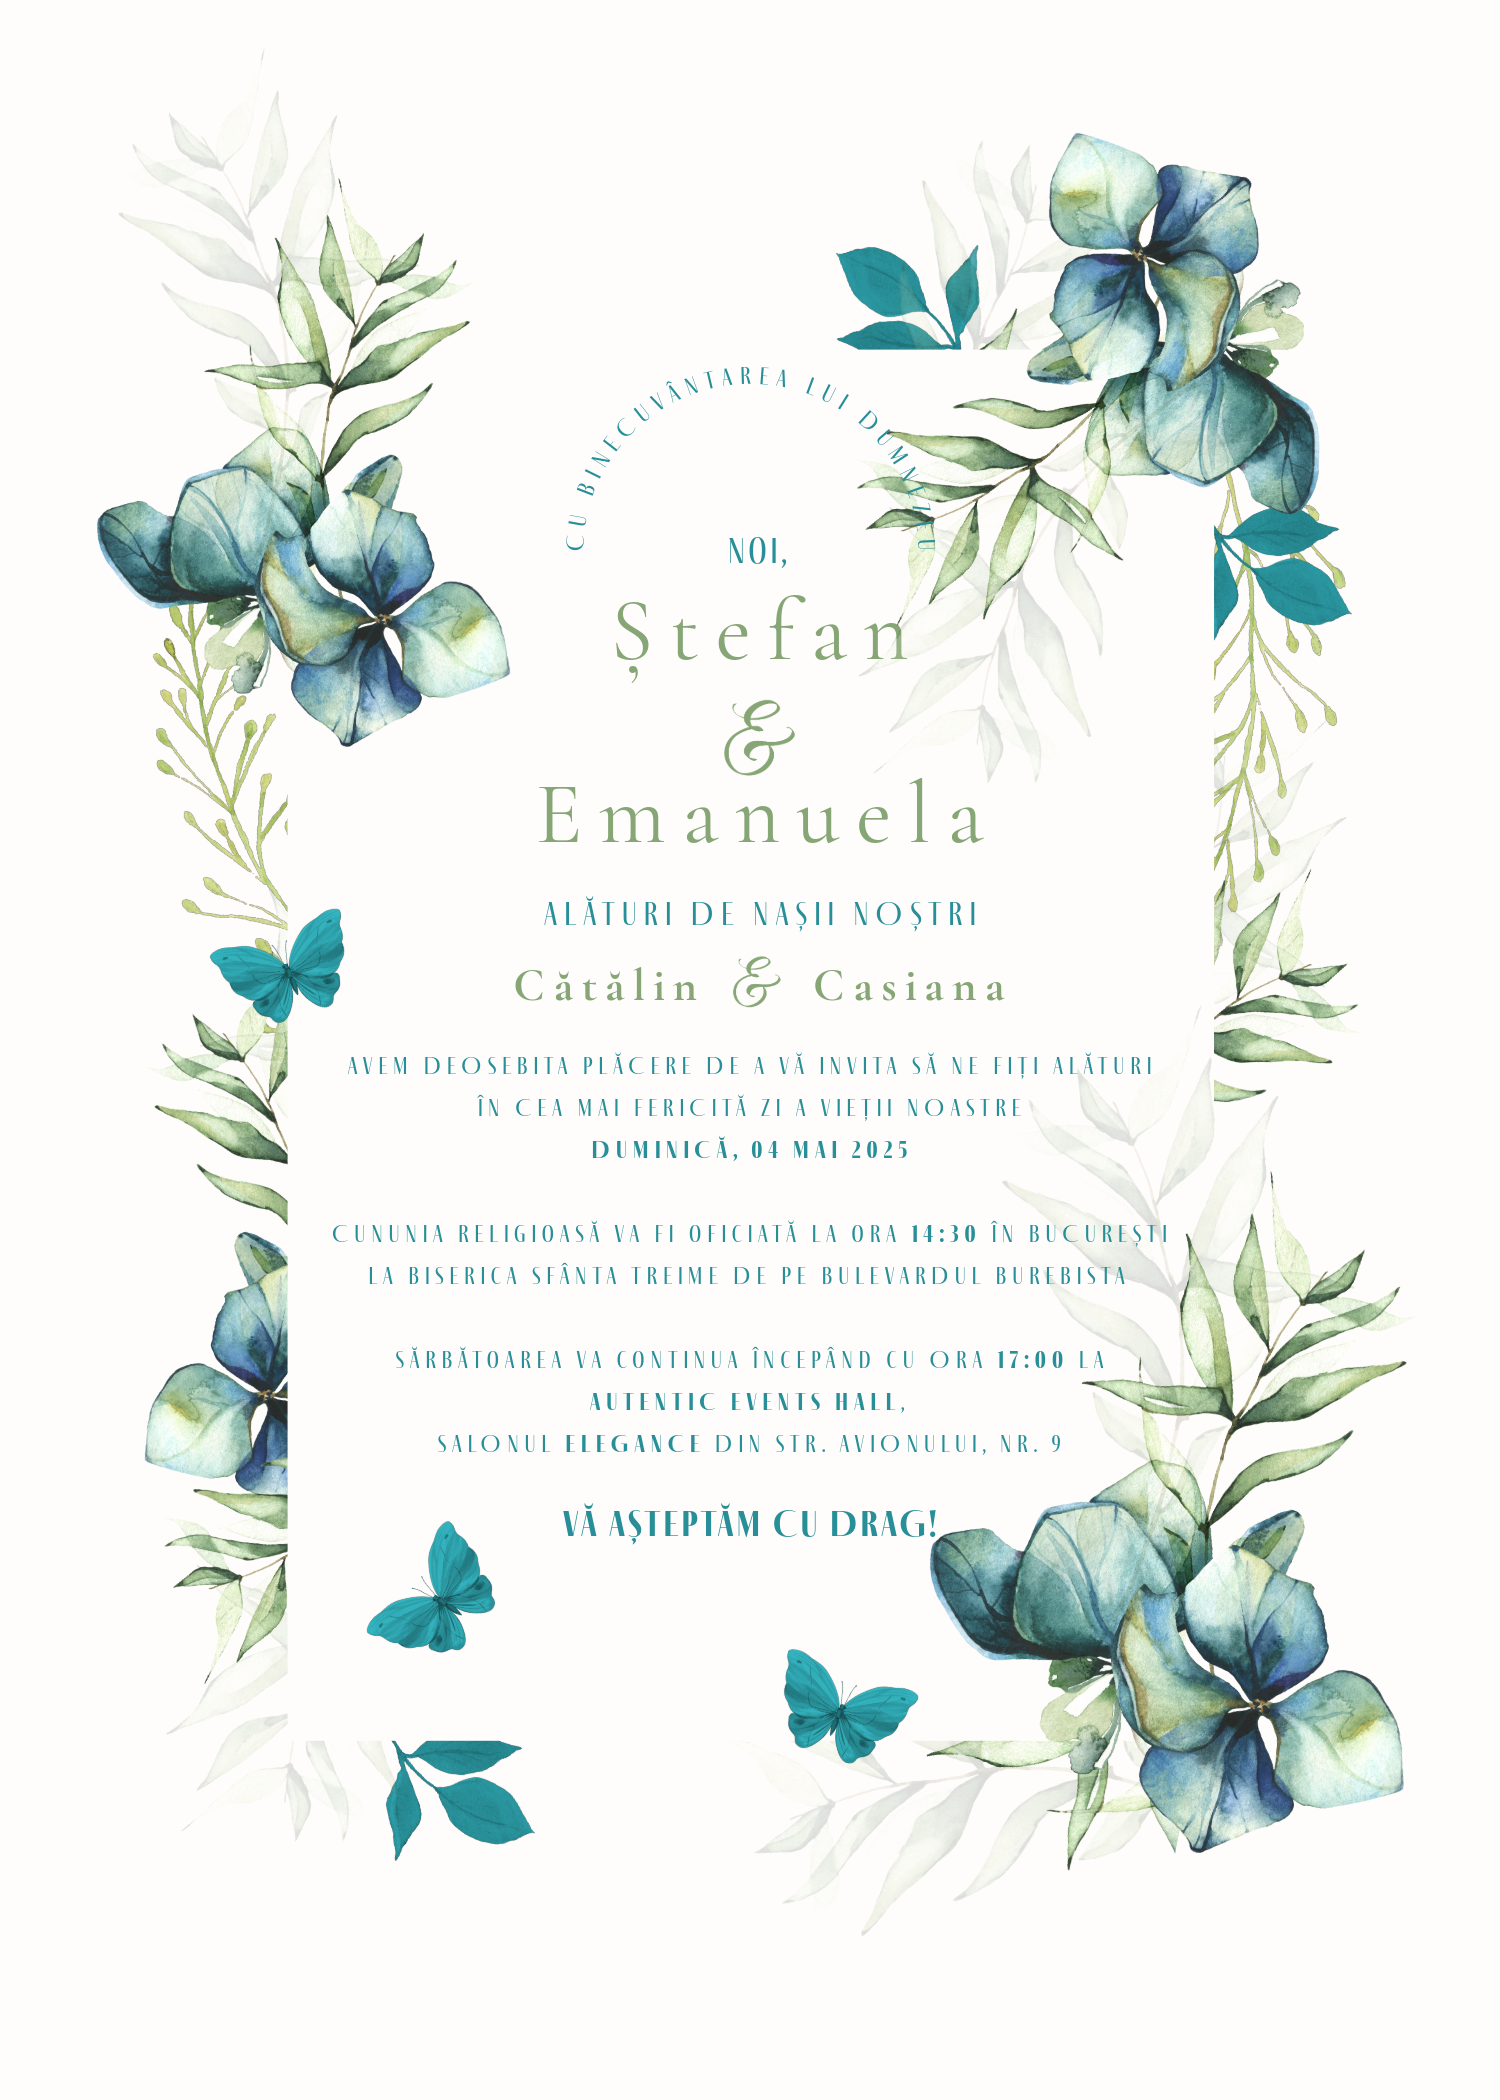
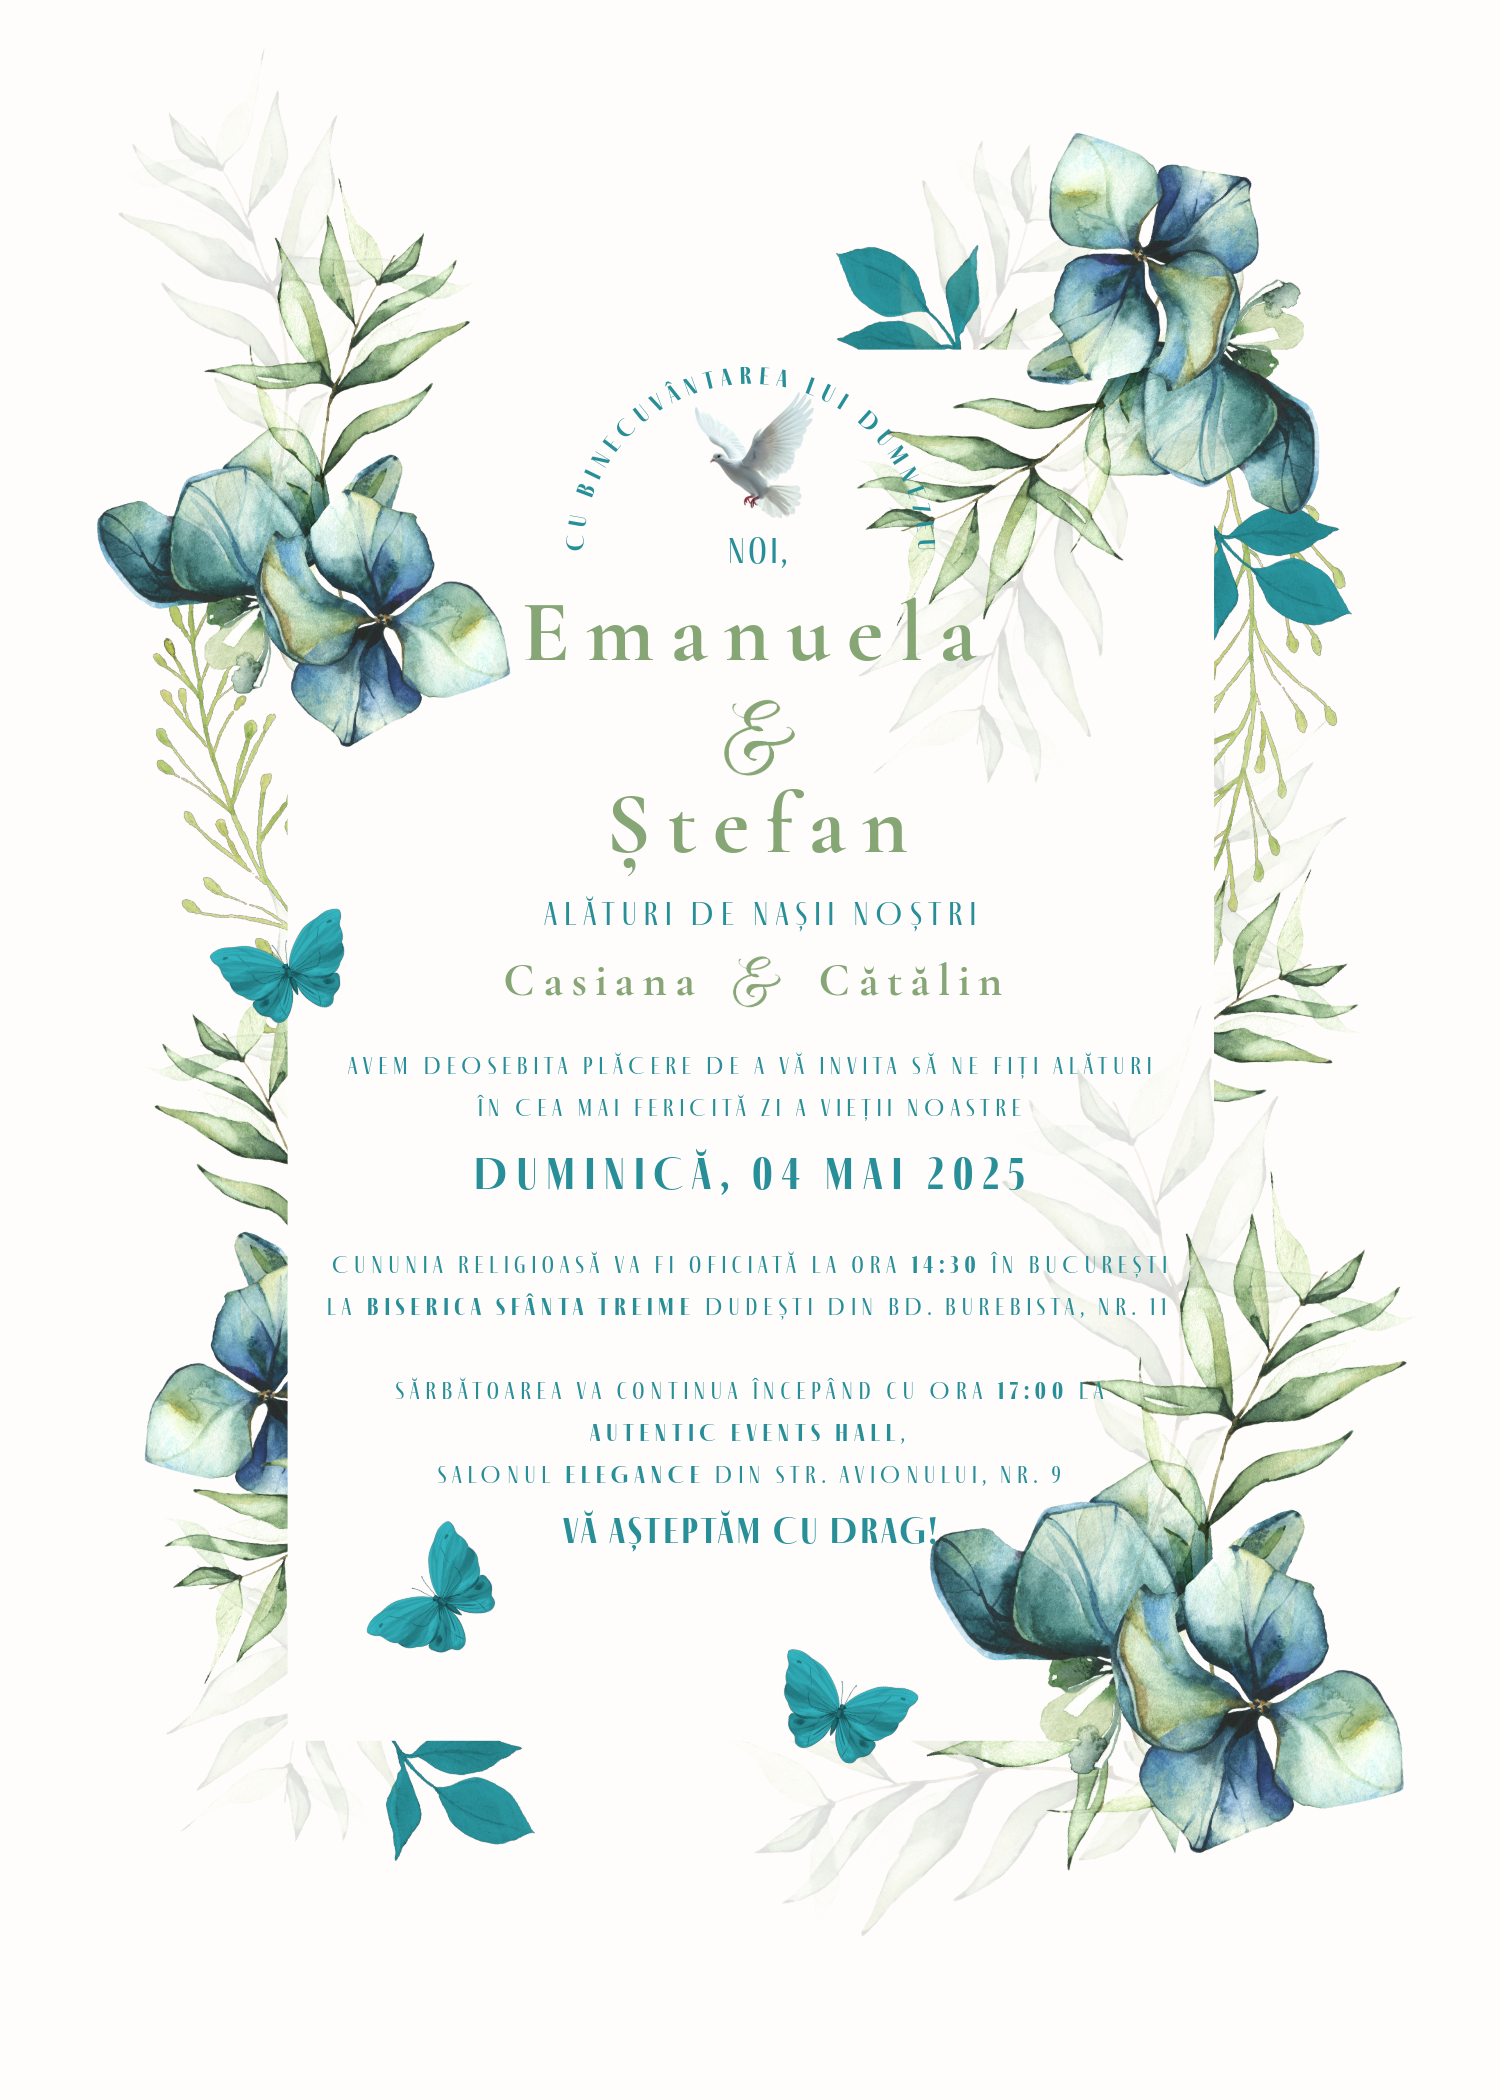
rework invitation

diff --git a/index.html b/index.html
@@ -5,8 +5,13 @@
     <title>Nuntă Stefan & Emanuela</title>
 </head>
 <body>
-    <div>
+    <div style="text-align: center;">
         <img src="./Invitatie_Nunta.png">
+    </div>
+	<div style="text-align: center; font-size: 30px;">
+        <a href="https://maps.app.goo.gl/MobxYi7kaBXF3BF79">Biserica Sfânta Treime Dudești</a>
+            |
+        <a href="https://maps.app.goo.gl/jfmmBnUAud7bpu9R6">Autentic Events Hall</a>
     </div>
 
 </body>
